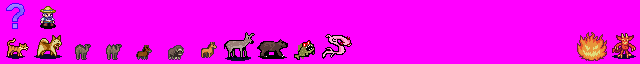
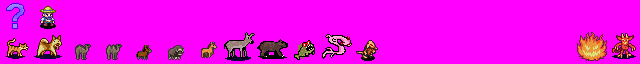
Added Ratman by frumpton. Updated Contributions.txt

Changed region(s): [[0.5312, 0.625, 0.5938, 0.9688]]

diff --git a/GameBuildings.cpp b/GameBuildings.cpp
@@ -146,134 +146,6 @@ void loadBuildingSprites ( Block* b){
   }
 }
 
-/*
-void loadSpecialBuildingTypes2 (WorldSegment* segment, Block* b, uint32_t relativex, uint32_t relativey, uint32_t height){
-
-  int* buildingInfoArray = 0;
-  int arrayIndex;
-  int i;
-
-  switch(b->building.type){
-  case BUILDINGTYPE_DOOR:
-    
-    i = findWallCloseTo(segment,b);
-    if( i == eSimpleN || i == eSimpleS )
-      b->mirroredBuilding = true;
-    break;
-
-  case BUILDINGTYPE_TRADEDEPOT:
-    buildingInfoArray = layoutTradeDepot;
-    break;
-  case BUILDINGTYPE_W_STILL:
-    //buildingInfoArray = layoutStill;
-    break;
-  case BUILDINGTYPE_W_CARPENTER:
-    //buildingInfoArray = layoutCarpenter;
-    break;
-  case BUILDINGTYPE_BRIDGE:
-    b->overridingBuildingType = SPRITEOBJECT_BRIDGE_C2;
-    
-    if(b->building.x1 == b->x)
-      b->overridingBuildingType = SPRITEOBJECT_BRIDGE_W;
-    if(b->building.x2 == b->x)
-      b->overridingBuildingType = SPRITEOBJECT_BRIDGE_E;
-
-    if(b->building.y1 == b->y){
-      b->overridingBuildingType = SPRITEOBJECT_BRIDGE_N;
-      if( b->building.x1 == b->x )
-        b->overridingBuildingType = SPRITEOBJECT_BRIDGE_NW;
-      if( b->building.x2 == b->x )
-        b->overridingBuildingType = SPRITEOBJECT_BRIDGE_NE;
-    }
-    if(b->building.y2 == b->y){
-      b->overridingBuildingType = SPRITEOBJECT_BRIDGE_S;
-      if( b->building.x1 == b->x )
-        b->overridingBuildingType = SPRITEOBJECT_BRIDGE_SW;
-      if( b->building.x2 == b->x )
-        b->overridingBuildingType = SPRITEOBJECT_BRIDGE_SE;
-    }
-    
-    if(b->building.y2 == b->building.y1 || b->building.x2 == b->building.x1 )
-      b->overridingBuildingType = SPRITEOBJECT_BRIDGE_C;
-    break;
-  }
-
-  if(buildingInfoArray){
-    arrayIndex = relativex + relativey*(height+1);
-    b->overridingBuildingType = buildingInfoArray[arrayIndex];
-  }
-}
-
-*/
-/*
-int getBuildingSprite(t_building &building, bool mirrored){
-  return SPRITEOBJECT_NA;
-
-
-  switch(building.type){
-  case BUILDINGTYPE_DOOR:
-    if(building.material.type == Mat_Wood) {
-      if(building.material.index == 9)//custom case for Willow doors, just to show it's possible
-        return mirrored ? SPRITEOBJECT_DOORWOOD_WILLOW_MIR : SPRITEOBJECT_DOORWOOD_WILLOW;
-      return mirrored ? SPRITEOBJECT_DOORWOOD_MIR : SPRITEOBJECT_DOORWOOD;
-    }
-	  if(building.material.type == Mat_Stone) 
-      return mirrored ? SPRITEOBJECT_DOORROCK_MIR : SPRITEOBJECT_DOORROCK;
-    break;
-
-  case BUILDINGTYPE_STOCKPILE:
-    return SPRITEOBJECT_STOCKPILE;
-    break;
-
-  case BUILDINGTYPE_ARMORSTAND:
-    return SPRITEOBJECT_ARMORSTAND;
-    break;
-
-  case BUILDINGTYPE_BED:
-    return SPRITEOBJECT_BED_WOOD;
-    break;
-
-  case BUILDINGTYPE_TABLE:
-    if(building.material.type == Mat_Wood)
-      return SPRITEOBJECT_TABLE_WOOD;
-    else
-      return SPRITEOBJECT_TABLE_ROCK;
-    break;
-  case BUILDINGTYPE_CHAIR:
-    if(building.material.type == Mat_Wood)
-      return SPRITEOBJECT_CHAIR_WOOD;
-    else
-      return SPRITEOBJECT_CHAIR_ROCK;
-    break;
-  case BUILDINGTYPE_STATUE:
-    return SPRITEOBJECT_STATUE;
-    break;
-  case BUILDINGTYPE_CABINET:
-    if(building.material.type == Mat_Wood)
-      return SPRITEOBJECT_CABINET_WOOD;
-    else
-      return SPRITEOBJECT_CABINET;
-    break;
-  case BUILDINGTYPE_CONTAINER:
-    return SPRITEOBJECT_CHEST;
-	case BUILDINGTYPE_FARM:
-		return SPRITEOBJECT_FARM;
-		break;
-  case BUILDINGTYPE_ZONE:
-    return SPRITEOBJECT_CURSORZONE;
-    break;
-  case BUILDINGTYPE_BULEPRINT:
-    return SPRITEOBJECT_BLUEPRINT;
-    break;
-  case BUILDINGTYPE_ROAD:
-    return SPRITEOBJECT_BRIDGE_C;
-    break;
-  }
-
-
-  return SPRITEOBJECT_NA;
-}
-*/
 /*TODO: this function takes a massive amount of work, looping all buildings for every block*/
 bool BlockHasSuspendedBuilding(vector<t_building>* buildingList, Block* b){
   uint32_t num = (uint32_t)buildingList->size();

diff --git a/Creatures.cpp b/Creatures.cpp
@@ -10,20 +10,9 @@ vector<CreatureConfiguration> creatureTypes;
 
 
 int GetCreatureSpriteMap( t_creature* c ){
-  //TODO: optimize by putting into a clever little table
-  /*char* strid = v_creatureNames[c->type].id;
-  if(strcmpi(strid, "dwarf") == 0)         return SPRITECRE_DWARF_PEASANT;
-  if(strcmpi(strid, "cat") == 0)           return SPRITECRE_CAT;
-  if(strcmpi(strid, "dog") == 0)           return SPRITECRE_DOG;
-  if(strcmpi(strid, "camel_1_hump") == 0)  return SPRITECRE_CAMEL1;
-  if(strcmpi(strid, "camel_2_humps") == 0) return SPRITECRE_CAMEL2;
-  if(strcmpi(strid, "mule") == 0)          return SPRITECRE_MULE;
-  if(strcmpi(strid, "muskox") == 0)        return SPRITECRE_MUSKOX;
-  if(strcmpi(strid, "horse") == 0)         return SPRITECRE_HORSE;
-    */
-  
   uint32_t num = (uint32_t)creatureTypes.size();
   for(uint32_t i=0; i < num; i++)
+    //TODO: Optimize. make a table lookup instead of a search
     if( c->type == creatureTypes[i].gameID )
       return creatureTypes[i].sheetIndex;
 
@@ -103,7 +92,7 @@ void generateCreatureDebugString( t_creature* c, char* strbuffer){
   if(c->flags1.bits.hostile)
     strcat(strbuffer, "hostile ");
   if(c->flags1.bits.fortress_guard)
-    strcat(strbuffer, "F_guard ");
+    strcat(strbuffer, "Fort_guard ");
   if(c->flags1.bits.invader1)
     strcat(strbuffer, "invader1 ");
   if(c->flags1.bits.invader2)
@@ -111,7 +100,7 @@ void generateCreatureDebugString( t_creature* c, char* strbuffer){
   if(c->flags1.bits.mood_survivor)
     strcat(strbuffer, "mood_surv ");
   if(c->flags1.bits.royal_guard)
-    strcat(strbuffer, "R_guard ");
+    strcat(strbuffer, "Royal_guard ");
   if(c->flags1.bits.skeletal)
     strcat(strbuffer, "skeletal ");
   if(c->flags1.bits.tame)
@@ -119,21 +108,21 @@ void generateCreatureDebugString( t_creature* c, char* strbuffer){
   if(c->flags1.bits.unconscious)
     strcat(strbuffer, "unconscious ");
   if(c->flags1.bits.unk1)
-    strcat(strbuffer, "u1 ");
+    strcat(strbuffer, "WaitMoveTimer ");
   if(c->flags1.bits.unk10)
-    strcat(strbuffer, "u10 ");
+    strcat(strbuffer, "Rider ");
   if(c->flags1.bits.unk11_not_on_unit_screen2)
-    strcat(strbuffer, "u11_not_on_unit_screen ");
+    strcat(strbuffer, "Incoming ");
   if(c->flags1.bits.unk12_friendly)
-    strcat(strbuffer, "u12friendly ");
+    strcat(strbuffer, "Diplomat ");
   if(c->flags1.bits.unk15_not_part_of_fortress)
-    strcat(strbuffer, "u15_notpart_of_fort ");
+    strcat(strbuffer, "CanSwapTiles ");
   if(c->flags1.bits.unk17_not_visible)
-    strcat(strbuffer, "u17notvis ");
+    strcat(strbuffer, "Projectile ");
   if(c->flags1.bits.unk19_not_listed_among_dwarves)
-    strcat(strbuffer, "u19notlisted ");
+    strcat(strbuffer, "HiddenAmbush ");
   if(c->flags1.bits.unk21)
-    strcat(strbuffer, "u21 ");
+    strcat(strbuffer, "WillFlee ");
   if(c->flags1.bits.hidden_ambusher)
     strcat(strbuffer, "hidden_ambusher ");
   if(c->flags1.bits.unk23)

diff --git a/GUI.cpp b/GUI.cpp
@@ -121,6 +121,7 @@ void drawDebugCursorAndInfo(BITMAP* target){
     
     char strCreature[100] = {0};
     generateCreatureDebugString( &b->creature, strCreature );
+    //memset(strCreature, -1, 50);
     textprintf(target, font, 2, config.screenHeight-20-(i--*10), 0xFFFFFF, 
       "flag1: %s ", strCreature );
   }
